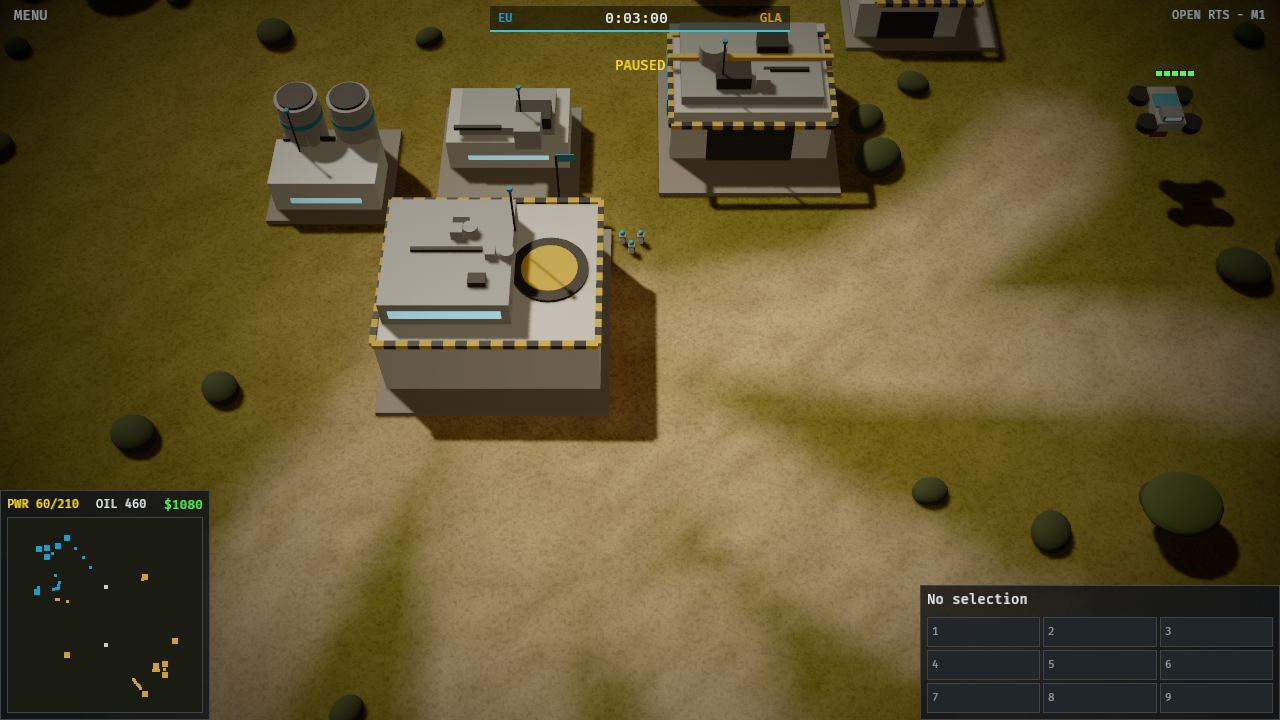
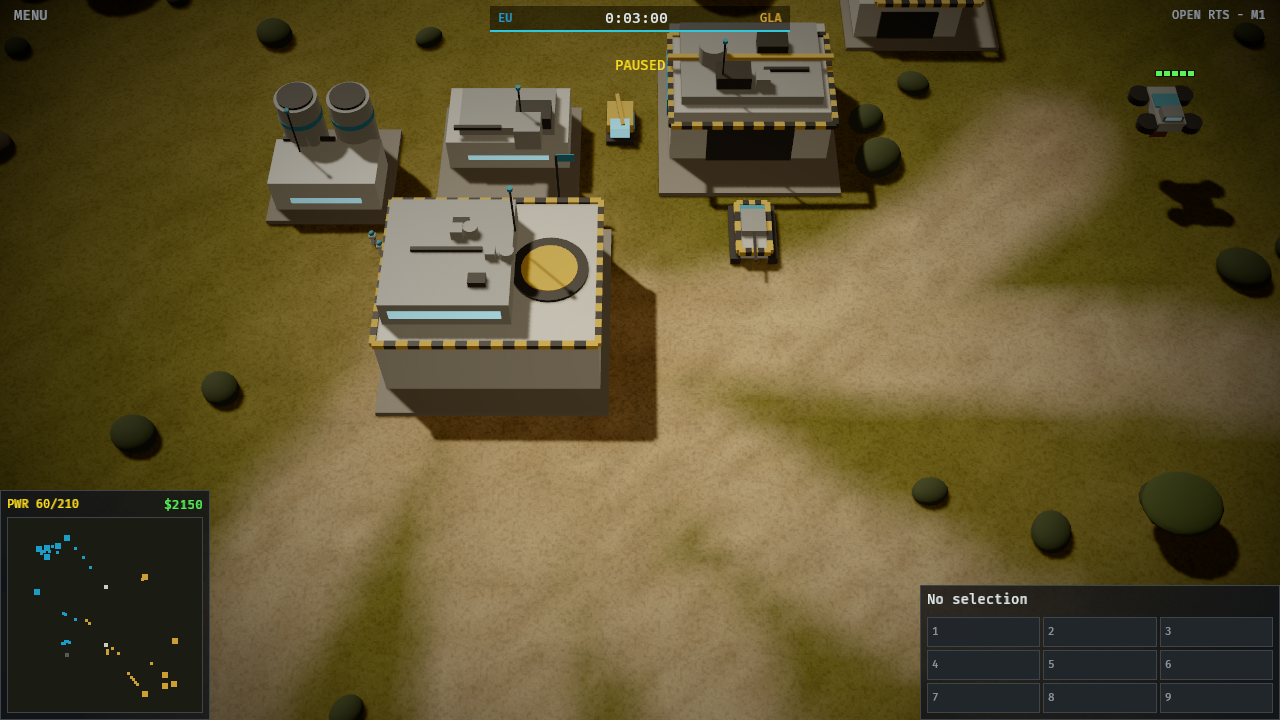
feat(economy): derricks pay credits (2013 patch); snap move slots to free cells
Oil
- The archive settles it (Fandom Oil_derrick_(Generals_2)): oil was first
  meant to be a secondary resource, but the August 2013 patch made derricks
  provide additional funds. Derricks now pay their 5/s in credits until the
  well is dry; the separate oil resource is gone from Cost, Player, the
  state hash, the HUD and g2-tools. User decision: follow the patch.

Movement
- formation() snaps each slot to the nearest free nav cell. Attack waves
  aimed past derricks and buildings got slots inside blocked cells; each
  such unit ran a whole-map A* (3-5 ms) for an unreachable goal. Bench
  back to ~120k ticks/s from ~83k.
- Test: a move into an enclosed lake ends on the nearest shore cell, Idle.

Golden replay re-blessed on purpose. README: economy line, survey
(first start 40 / second 32; EU 40, APA 24, GLA 8), new renders and HUD
totals (no oil counter).

diff --git a/crates/g2-sim/src/world.rs b/crates/g2-sim/src/world.rs
@@ -25,7 +25,6 @@ pub struct Player {
     /// Chosen general; its modifiers apply to every cost and build time this player pays.
     pub general: Option<crate::defs::GeneralId>,
     pub credits: i64,
-    pub oil: i64,
     pub power_supply: i32,
     pub power_drain: i32,
     pub defeated: bool,
@@ -122,7 +121,6 @@ impl World {
                 faction: p.faction,
                 general: p.general,
                 credits: p.starting_credits,
-                oil: 0,
                 power_supply: 0,
                 power_drain: 0,
                 defeated: false,
@@ -329,7 +327,7 @@ impl World {
         }
         self.resolve_shots();
         self.separate_units();
-        self.update_oil();
+        self.update_derricks();
         // Defeat first, so an eliminated player's remaining units go in the same tick.
         self.update_defeat();
         self.cleanup();
@@ -390,7 +388,7 @@ impl World {
     fn afford(&self, player: PlayerId, def: DefId) -> Result<(), Reject> {
         let cost = self.cost_for(player, def);
         let p = self.player(player);
-        if p.credits < cost.credits || p.oil < cost.oil {
+        if p.credits < cost.credits {
             return Err(Reject::InsufficientFunds);
         }
         Ok(())
@@ -400,7 +398,6 @@ impl World {
         let cost = self.cost_for(player, def);
         let p = &mut self.players[player.0 as usize];
         p.credits -= sign * cost.credits;
-        p.oil -= sign * cost.oil;
     }
 
     fn apply(&mut self, cmd: &Command) -> Result<(), Reject> {
@@ -535,7 +532,9 @@ impl World {
     }
 
     /// One destination per unit around `target`: a square, row-major in selection order,
-    /// spaced by the widest unit.
+    /// spaced by the widest unit. A slot inside a building or on blocked terrain moves to the
+    /// nearest free cell; otherwise the unit could never arrive, and every attempt to route
+    /// there would search the whole reachable map.
     fn formation(&self, units: &[EntityId], target: Vec2) -> Vec<(EntityId, Vec2)> {
         let target = self.map.clamp(target);
         let spacing = units.iter().map(|&u| self.radius_of(u)).max().unwrap_or(SLACK) * Fx::from_int(2) + SLACK;
@@ -549,7 +548,7 @@ impl World {
                     spacing * Fx::from_int(col) - spacing * Fx::from_ratio(side - 1, 2),
                     spacing * Fx::from_int(row) - spacing * Fx::from_ratio(side - 1, 2),
                 );
-                (u, self.map.clamp(target + offset))
+                (u, self.nav.free_point(self.map.clamp(target + offset)))
             })
             .collect()
     }
@@ -1057,10 +1056,12 @@ impl World {
         }
     }
 
-    fn update_oil(&mut self) {
+    /// Derricks pay credits from their well every second until it runs dry. The 2013 patch
+    /// made oil derricks "provide additional funds" instead of a second resource.
+    fn update_derricks(&mut self) {
         for id in self.entities.ids() {
             let e = self.entities.get(id).unwrap();
-            let Some(BuildingRole::OilDerrick { oil_per_second }) = self.rules.def(e.def).role() else { continue };
+            let Some(BuildingRole::OilDerrick { credits_per_second }) = self.rules.def(e.def).role() else { continue };
             let (Some(well), Some(owner), true) = (e.on_well, e.owner, e.is_complete()) else { continue };
             let e = self.entities.get_mut(id).unwrap();
             e.income_ticks += 1;
@@ -1069,9 +1070,9 @@ impl World {
             }
             e.income_ticks = 0;
             let Some(w) = self.entities.get_mut(well) else { continue };
-            let amount = oil_per_second.min(w.resource);
+            let amount = credits_per_second.min(w.resource);
             w.resource -= amount;
-            self.players[owner.0 as usize].oil += amount;
+            self.players[owner.0 as usize].credits += amount;
         }
     }
 

diff --git a/crates/g2-rules/tests/economy.rs b/crates/g2-rules/tests/economy.rs
@@ -153,8 +153,8 @@ fn collectors_route_between_tightly_packed_buildings() {
     }
 }
 
-/// A move into a spot enclosed by terrain stops at the closest reachable point and stays
-/// there: the partial route is kept (not replanned into a wander) while the target stands.
+/// A move into a spot enclosed by terrain (blocked within 10 units, ring search reach) ends on
+/// the free cell nearest the clicked point, and the unit stays there; no route keeps searching.
 #[test]
 fn a_move_to_an_unreachable_point_stops_at_the_closest_reachable_one() {
     let mut setup = MatchSetup {
@@ -177,10 +177,12 @@ fn a_move_to_an_unreachable_point_stops_at_the_closest_reachable_one() {
     run(&mut w, 30 * 30);
     let stop = w.entity(dozer).unwrap().pos;
     let (x, y) = (stop.x.to_f32(), stop.y.to_f32());
-    assert!((134.0..=144.0).contains(&x) && (130.0..=150.0).contains(&y), "stops on the near shore, at {stop:?}");
+    // The lake spans x 140..180, y 120..160; the nearest free cells to (150,140) are on its
+    // west edge, just outside x = 140.
+    assert!((134.0..=140.0).contains(&x) && (120.0..=160.0).contains(&y), "stops on the near shore, at {stop:?}");
+    assert_eq!(w.entity(dozer).unwrap().order, Order::Idle, "arrived");
     run(&mut w, 30 * 10);
     assert_eq!(w.entity(dozer).unwrap().pos, stop, "waits there instead of wandering");
-    assert!(matches!(w.entity(dozer).unwrap().order, Order::Move { .. }), "the order stands");
 }
 
 #[test]
@@ -246,6 +248,8 @@ fn piles_deplete_and_vanish() {
     }
 }
 
+/// Derricks pay credits (the 2013 patch's "additional funds"), exactly as much as the well
+/// holds, then stop.
 #[test]
 fn derricks_only_go_on_free_wells_and_stop_when_dry() {
     let mut map = crater_ridge();
@@ -269,8 +273,9 @@ fn derricks_only_go_on_free_wells_and_stop_when_dry() {
     let worker = first(&w, P0, GLA_WORKER).unwrap();
     let taken = order(&mut w, CommandKind::Build { builder: worker, def: GLA_DERRICK, pos: Vec2::from_int(60, 150) });
     assert_eq!(taken, vec![Reject::InvalidPlacement], "a well holds one derrick");
+    let before = w.player(P0).credits;
     run(&mut w, 30 * 10);
-    assert_eq!(w.player(P0).oil, 12, "income stops at the well's reserve");
+    assert_eq!(w.player(P0).credits - before, 12, "income stops at the well's reserve");
 }
 
 #[test]

diff --git a/crates/g2-sim/src/defs.rs b/crates/g2-sim/src/defs.rs
@@ -27,10 +27,11 @@ impl Faction {
 #[derive(Clone, Copy, PartialEq, Eq, PartialOrd, Ord, Hash, Debug)]
 pub struct DefId(pub u16);
 
+/// What a unit or building costs. Credits only: the 2013 game dropped oil as a second
+/// currency (its derricks paid credits, Fandom `Oil_derrick_(Generals_2)`).
 #[derive(Clone, Copy, PartialEq, Eq, Debug, Default)]
 pub struct Cost {
     pub credits: i64,
-    pub oil: i64,
 }
 
 #[derive(Clone, Copy, PartialEq, Eq, Debug)]
@@ -96,9 +97,9 @@ pub enum BuildingRole {
         collector_cap: u32,
     },
     PowerPlant,
-    /// Must be placed on a free oil well; yields `oil_per_second` until the well runs dry.
+    /// Must be placed on a free oil well; pays `credits_per_second` until the well runs dry.
     OilDerrick {
-        oil_per_second: i64,
+        credits_per_second: i64,
     },
     /// Trains combat units (barracks, war factory).
     Factory,
@@ -179,7 +180,7 @@ pub struct General {
 /// A per-def change, in whole percent; several for one def multiply.
 #[derive(Clone, Copy, PartialEq, Eq, Debug)]
 pub enum Modifier {
-    /// `cost_percent` of the normal credit and oil cost.
+    /// `percent` of the normal cost.
     Cost { def: DefId, percent: i64 },
     /// `percent` of the normal build time.
     BuildTime { def: DefId, percent: u32 },
@@ -214,7 +215,7 @@ impl Rules {
             Modifier::Cost { def: d, percent } if d == def => p * percent / 100,
             _ => p,
         });
-        Cost { credits: base.credits * percent / 100, oil: base.oil * percent / 100 }
+        Cost { credits: base.credits * percent / 100 }
     }
 
     /// Build time of `def` in ticks for a player with `general`; at least one tick.

diff --git a/crates/g2-rules/tests/determinism.rs b/crates/g2-rules/tests/determinism.rs
@@ -180,11 +180,16 @@ fn ai_builds_an_economy() {
     for f in Faction::ALL {
         let s = setup(5, [true, false], [f, Faction::Eu]);
         let (w, _) = record(World::new(&s, rules()), &s, 30 * 300, |_| {});
-        let p = w.player(PlayerId(0));
         let collectors =
             w.entities().filter(|e| e.owner == Some(PlayerId(0)) && rules().def(e.def).collector().is_some()).count();
         assert!(collectors >= 2, "{f:?}: {collectors} collectors after 5 min");
-        assert!(p.oil > 0, "{f:?}: no oil derrick income after 5 min");
+        let start = |pos| s.map.oil_wells.iter().find(|&&(p, _)| p == pos).map_or(0, |&(_, r)| r);
+        let pumping = w.entities().any(|e| {
+            e.owner == Some(PlayerId(0))
+                && e.is_complete()
+                && e.on_well.and_then(|wl| w.entity(wl)).is_some_and(|wl| wl.resource < start(wl.pos))
+        });
+        assert!(pumping, "{f:?}: no derrick has drawn on its well after 5 min");
     }
 }
 

diff --git a/crates/g2-client/src/hud.rs b/crates/g2-client/src/hud.rs
@@ -34,7 +34,6 @@ enum Field {
     Clock,
     Power,
     Money,
-    Oil,
     Status,
     SelName,
     SelInfo,
@@ -185,7 +184,6 @@ fn spawn(mut commands: Commands, sim: Res<Sim>) {
         })
         .with_children(|s| {
             s.spawn((text("PWR 0/0", 12.0, XP), Field::Power));
-            s.spawn((text("OIL 0", 12.0, TEXT), Field::Oil));
             s.spawn((text("$0", 13.0, MONEY), Field::Money));
         });
         p.spawn((
@@ -319,7 +317,6 @@ fn update_fields(
                 }
             }
             Field::Money => t.0 = format!("${}", me.credits),
-            Field::Oil => t.0 = format!("OIL {}", me.oil),
             Field::Status => {
                 t.0 = match (world.winner(), sim.speed, placing.0) {
                     (Some(w), _, _) if w == LOCAL => "VICTORY".into(),

diff --git a/crates/g2-sim/src/nav.rs b/crates/g2-sim/src/nav.rs
@@ -169,6 +169,16 @@ impl Grid {
         Some(self.smooth(start, (b % self.w, b / self.w), &parent, None))
     }
 
+    /// The centre of the nearest free cell to `p`, or `p` itself when its own cell is free (or
+    /// nothing free is near). Move destinations are snapped with this, so a route can end there.
+    pub fn free_point(&self, p: Vec2) -> Vec2 {
+        let c = self.cell(p);
+        match self.nearest_free(c) {
+            Some(f) if f != c => Self::centre(f.0, f.1),
+            _ => p,
+        }
+    }
+
     /// Nearest free cell to `c` (ring search), for starts inside a grown obstacle.
     fn nearest_free(&self, c: (i32, i32)) -> Option<(i32, i32)> {
         if !self.blocked(c.0, c.1) {

diff --git a/crates/g2-tools/src/main.rs b/crates/g2-tools/src/main.rs
@@ -187,11 +187,10 @@ fn print_economy(world: &World) {
             world.entities().filter(|e| e.owner == me && pred(world.rules.def(e.def))).count()
         };
         println!(
-            "  P{i} {:<22} {:<11} credits {:>6}  oil {:>5}  power {:>3}/{:<3}  buildings {:>2}  collectors {:>2}{}",
+            "  P{i} {:<22} {:<11} credits {:>6}  power {:>3}/{:<3}  buildings {:>2}  collectors {:>2}{}",
             p.faction.name(),
             p.general.map_or("", |g| world.rules.general(g).name),
             p.credits,
-            p.oil,
             p.power_drain,
             p.power_supply,
             count(&|d| d.is_building()),

diff --git a/crates/g2-rules/src/lib.rs b/crates/g2-rules/src/lib.rs
@@ -62,7 +62,7 @@ const fn per_sec(units: i64) -> Fx {
 }
 
 const fn credits(c: i64) -> Cost {
-    Cost { credits: c, oil: 0 }
+    Cost { credits: c }
 }
 
 const NONE: &[DefId] = &[];
@@ -180,7 +180,7 @@ const RIFLES: Weapon = weapon(13, [2, 0, 0, 0], 25, 9);
 const TANK_GUN: Weapon = weapon(40, [0, 30, 0, 0], 35, 15);
 
 const HARVEST: CollectorSpec = CollectorSpec { capacity: 100, load_ticks: secs(3), unload_ticks: secs(1) };
-const DERRICK: BuildingRole = BuildingRole::OilDerrick { oil_per_second: 5 };
+const DERRICK: BuildingRole = BuildingRole::OilDerrick { credits_per_second: 5 };
 
 static DEFS: [Def; 30] = [
     Def {

diff --git a/crates/g2-sim/src/entity.rs b/crates/g2-sim/src/entity.rs
@@ -75,7 +75,7 @@ pub struct Entity {
     /// Supply center the collector is bound to (counts against that center's cap).
     pub home: Option<EntityId>,
     pub powered: bool,
-    /// Fractional oil income accumulator (ticks into the current second).
+    /// Oil derrick: ticks into the current second of income.
     pub income_ticks: u32,
     /// Armed units: ticks until the weapon can fire again.
     pub cooldown: u32,

diff --git a/crates/g2-sim/src/hash.rs b/crates/g2-sim/src/hash.rs
@@ -54,7 +54,6 @@ impl World {
         for p in &self.players {
             h.u64(p.faction as u64);
             h.i64(p.credits);
-            h.i64(p.oil);
             h.i64(p.power_supply as i64);
             h.i64(p.power_drain as i64);
             h.u64(p.defeated as u64);

diff --git a/README.md b/README.md
@@ -12,7 +12,7 @@ What works:
 - **Generals 2 economy**, from the archived sources:
   - Credits from supply piles, carried by collectors to a supply center.
   - Collector cap per supply center: **EU 3, APA 5, GLA 8**.
-  - Oil from derricks, which can only sit on oil wells and pay out until the well is dry.
+  - Oil derricks, which can only sit on oil wells and pay credits until the well is dry. The archived sources say oil was first meant to be a second resource, but the August 2013 patch made derricks "provide additional funds"; this follows the patch, so credits are the only currency.
   - Local power: plants power consumers within a radius. Unpowered production runs at half speed. The GLA has no grid.
   - Constructors place foundations that must be worked on, production queues with full refunds on cancel, and surrender/defeat.
 - **Three factions** (`crates/g2-rules`): EU, APA and GLA. Command center, constructor, supply center, collector, power plant, oil derrick, barracks and war factory each, plus one infantry squad and one tank (EU Recon Squad and Aegis, APA Red Guard and Warlord, GLA Rabble Squad and Scorpion). Sourced numbers are tagged `// src:`, everything else is a placeholder.
@@ -38,8 +38,7 @@ Not yet:
 - Fog of war, projectiles, splash damage, veterancy, upgrades, aircraft, garrisons. Units still push through each other (except collectors, which pass through); there is no local avoidance, so a wave bunches up into a column.
 - Generals' unique units, player powers and the per-general perk progression (rank, perk slots; archived patch preview #2). Only cost/time modifiers exist.
 - The Onslaught PvE mode, networking, real art, audio.
-- **Balance is unexamined and lopsided.** In 72 AI-vs-AI matches on Crater Ridge (all 9 pairings, seeds 1–8; the AI uses no randomness, so the seed changes nothing) the second start won 48 and the first 24; the APA and EU won 32 each, the GLA 8. Every match ended, after 5 to 10 minutes. The two AIs now build mirror-image bases (a test checks it) and their units leave the side of each building facing the map centre, yet mirror matches still drift apart after about two minutes and the seat still decides more than the faction. The cause is in per-tick processing, not the layout: the AI of the first start thinks one tick earlier, and movement, separation and pathfinding work on a fixed grid and in entity order, which a 180° rotation does not preserve. Nothing here says anything about faction strength. The unit numbers come from two sourced weapons stretched over six units.
-- **Oil is earned but never spent.** No unit or building costs oil yet.
+- **Balance is unexamined and lopsided.** In 72 AI-vs-AI matches on Crater Ridge (all 9 pairings, seeds 1–8; the AI uses no randomness, so the seed changes nothing) the first start won 40 and the second 32; the EU won 40, the APA 24 and the GLA 8. Every match ended, after 5 to 6 minutes. The two AIs now build mirror-image bases (a test checks it) and their units leave the side of each building facing the map centre, yet mirror matches still drift apart after about two minutes, and the split moves with every AI change. The cause is in per-tick processing, not the layout: the AI of the first start thinks one tick earlier, and movement, separation and pathfinding work on a fixed grid and in entity order, which a 180° rotation does not preserve. Nothing here says anything about faction strength. The unit numbers come from two sourced weapons stretched over six units.
 - The AI rebuilds a lost constructor but does not protect it, and keeps no reserve, so an AI under pressure can lose several in a row.
 - The **"base proxy" rule**: Wikipedia says a faction "must have 'captured' a resource stash before letting its harvesters in". The archived sources don't say how capture works, so for now any player can gather from any pile.
 - Rules are const Rust tables, not data files.
@@ -47,11 +46,11 @@ Not yet:
 
 ![EU base at 3 minutes, in-game camera](docs/img/m1-eu-base-3min.png)
 
-![EU wave attacking the GLA base at 4:48, in-game camera](docs/img/m3-eu-attacks-gla.png)
+![EU wave attacking the GLA command center at 4:32, in-game camera](docs/img/m3-eu-attacks-gla.png)
 
 ![APA vs GLA after 5 minutes, whole-map view](docs/img/m1-apa-vs-gla-5min.png)
 
-*Above: an EU base at 3:00 (EU vs GLA AI, `--view base`); the EU's first wave of Recon squads and Aegis tanks attacking the GLA barracks and war factory at 4:48 (`--view battle --ticks 8649`); and APA (red) vs GLA (sand) after 5 minutes of AI vs AI (`--view map`). All rendered headless with `--screenshot` on the integrated Radeon (RADV GFX1150).*
+*Above: an EU base at 3:00 (EU vs GLA AI, `--view base`); the EU's wave of Recon squads and Aegis tanks attacking the GLA command center at 4:32, with a Scorpion tank defending (`--view battle --ticks 8184`); and APA (red) vs GLA (sand) after 5 minutes of AI vs AI (`--view map`). All rendered headless with `--screenshot` on the integrated Radeon (RADV GFX1150).*
 
 ![Zero Hour's Tournament Desert, EU base at 3 minutes](docs/img/m2-zh-tournament-desert-base.png)
 
@@ -61,7 +60,7 @@ Not yet:
 
 **Verification status.**
 
-- The three frames above were rendered on this host, and the mirror check passed for each (47/47, 50/50 and 50/50 entities, none misplaced). The HUD totals match `g2-tools record --seed 1` for the same matches: EU at 5,400 ticks shows `$1080`, oil 460, power 60/210; APA at 9,000 ticks shows `$50`, oil 1130, power 70/210.
+- The three frames above were rendered on this host, and the mirror check passed for each (51/51, 53/53 and 49/49 entities, none misplaced). The HUD totals match `g2-tools record --seed 1` for the same matches: EU at 5,400 ticks shows `$2150`, power 60/210; APA at 9,000 ticks shows `$35`, power 80/210.
 - A test drives the real Bevy schedule without a renderer: orders between frames, a ×4 burst, then a saved replay. That replay verifies to the same final hash, which covers the client's command path end to end.
 - Imported maps: all 174 official maps parse in a test; a recorded AI match on `zh:Tournament Desert` round-trips through a replay and verifies to the same hash, and a moved resource is caught as a changed map; terrain tests check that starts sit on the battlefield level, original scenery stays off bases and water, the ridge past the edge has no steps, and water surfaces stay inside the map; a test aims camera rays at 361 points on Defcon6's terraces and checks each lands within 0.5 units. Tournament Desert, Alpine Assault, Golden Oasis, Defcon6 and Winding River were rendered headless with the mirror check passing (models on terrain, none misplaced): Tournament Desert 37/37, Winding River 27/27 for the frames above.
 - The **interactive** window (mouse, keyboard, camera) has not been exercised; the build host has no display. That includes the attack and Ctrl attack-move orders, mixed selections (armed units attack, the rest walk to the spot), clicking onto hills (the ray march itself is unit-tested) and the camera easing up and down terrain while panning. The "+credits" pop-ups and moving tracers have only been seen frozen in screenshots; a test checks that every delivery reaches the pop-up queue at ×8.
